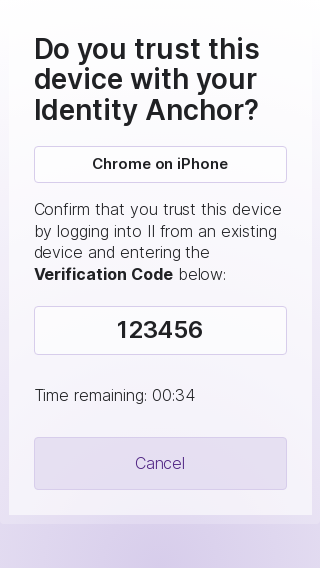
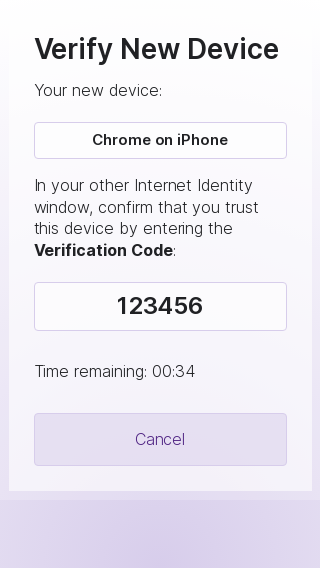
Update copy on showVerificationCode screen (#1254)
* Update copy on showVerificationCode screen

The copy is updated for clarity.

* 🤖 Selenium screenshots auto-update

---------

diff --git a/src/frontend/src/flows/addDevice/welcomeView/showVerificationCode.ts b/src/frontend/src/flows/addDevice/welcomeView/showVerificationCode.ts
@@ -28,18 +28,17 @@ const showVerificationCodeTemplate = ({
   cancel: () => void;
 }) => {
   const pageContentSlot = html` <hgroup>
-      <h1 class="t-title t-title--main">
-        Do you trust this device with your Identity Anchor?
-      </h1>
+      <h1 class="t-title t-title--main">Verify New Device</h1>
+      <p class="t-paragraph">Your new device:</p>
       <output
         class="c-input c-input--readonly t-vip t-vip--small"
         aria-label="Device Alias"
         >${alias}</output
       >
       <p class="t-paragraph">
-        Confirm that you trust this device by logging into II from an existing
-        device and entering the
-        <strong class="t-strong">Verification Code</strong> below:
+        In your other Internet Identity window, confirm that you trust this
+        device by entering the
+        <strong class="t-strong">Verification Code</strong>:
       </p>
     </hgroup>
     <output
